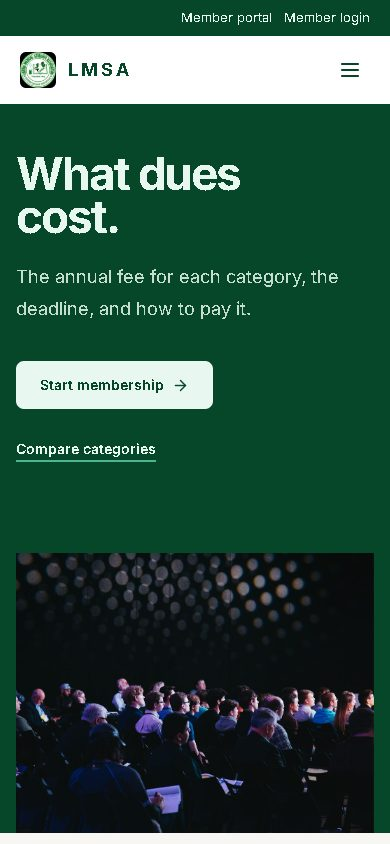
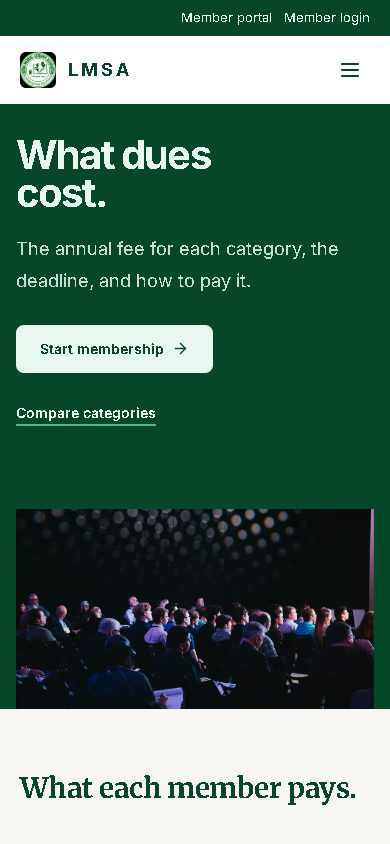
Add a compact poster hero and use it on dues so the fees reach the first screen.
The full poster put 540px of picture beside the title, which pushed the page's own
content below the fold on a page whose first job is to state a price. The compact
variant keeps the poster's layout and colour but caps the picture at 340px and the
display type a step smaller, so the first priced row now lands inside the first
screen while the two membership pages still open alike.

🤖 Generated with Codebuff

diff --git a/lmsa-website/src/components/common/PageHero.jsx b/lmsa-website/src/components/common/PageHero.jsx
@@ -165,7 +165,7 @@ const heroPages = [
     eyebrow: 'Membership / Dues',
     title: 'What dues cost',
     titleLines: ['What dues', 'cost.'],
-    variant: 'poster',
+    variant: 'poster-compact',
     description:
       'The annual fee for each category, the deadline, and how to pay it.',
     action: { label: 'Start membership', to: '/register' },
@@ -358,27 +358,46 @@ export default function PageHero() {
   const isHome = pathname === '/';
   const photo = hero.photoKey ? stockPhotos.hero[hero.photoKey] : null;
 
-  if (hero.variant === 'poster') {
+  // 'poster' opens a section; 'poster-compact' keeps the same layout with a shorter
+  // picture and title, so a page whose first screen belongs to its content can start higher.
+  const isPoster = hero.variant === 'poster' || hero.variant === 'poster-compact';
+  const isCompactPoster = hero.variant === 'poster-compact';
+
+  if (isPoster) {
     return (
       <section
         className={`relative overflow-hidden ${styles.surface} ${styles.text}`}
         aria-labelledby="page-hero-title"
       >
         <div className="mx-auto max-w-7xl px-4 sm:px-6 lg:px-8">
-          <div className="grid items-end gap-10 pt-12 md:pt-16 lg:grid-cols-[1.05fr_0.95fr] lg:gap-16 lg:pt-20">
-            <div className="pb-10 lg:pb-16">
+          <div
+            className={`grid gap-10 lg:grid-cols-[1.05fr_0.95fr] lg:gap-16 ${
+              isCompactPoster
+                ? 'items-center pt-8 md:pt-10 lg:pt-12'
+                : 'items-end pt-12 md:pt-16 lg:pt-20'
+            }`}
+          >
+            <div className={isCompactPoster ? 'pb-8 lg:pb-10' : 'pb-10 lg:pb-16'}>
               <h1
                 id="page-hero-title"
-                className="text-[clamp(2.9rem,7vw,5.75rem)] font-bold leading-[0.92] tracking-[-0.045em]"
+                className={`font-bold tracking-[-0.045em] ${
+                  isCompactPoster
+                    ? 'text-[clamp(2.5rem,5.2vw,4.5rem)] leading-[0.96]'
+                    : 'text-[clamp(2.9rem,7vw,5.75rem)] leading-[0.92]'
+                }`}
               >
                 {(hero.titleLines || [hero.title]).map((line) => (
                   <span key={line} className="block">{line}</span>
                 ))}
               </h1>
-              <p className="mt-6 max-w-[44ch] text-lg leading-8 opacity-85 md:text-xl md:leading-9">
+              <p
+                className={`${isCompactPoster ? 'mt-5' : 'mt-6'} max-w-[44ch] text-lg leading-8 opacity-85 md:text-xl md:leading-9`}
+              >
                 {hero.description}
               </p>
-              <div className="mt-9 flex flex-wrap items-center gap-x-8 gap-y-4">
+              <div
+                className={`${isCompactPoster ? 'mt-7' : 'mt-9'} flex flex-wrap items-center gap-x-8 gap-y-4`}
+              >
                 <Link
                   to={hero.action.to}
                   className="inline-flex min-h-12 items-center gap-2 rounded-lg bg-lmsa-50 px-6 text-sm font-semibold text-lmsa-900 transition-transform duration-200 hover:-translate-y-0.5"
@@ -396,7 +415,7 @@ export default function PageHero() {
                 )}
               </div>
               {hero.stats && (
-                <dl className="mt-12 flex flex-wrap gap-x-12 gap-y-6">
+                <dl className={`${isCompactPoster ? 'mt-8' : 'mt-12'} flex flex-wrap gap-x-12 gap-y-6`}>
                   {hero.stats.map(([value, label]) => (
                     <div key={label} className="flex items-baseline gap-2.5">
                       <dt className="sr-only">{label}</dt>
@@ -414,7 +433,11 @@ export default function PageHero() {
                   src={photo.src}
                   alt={photo.alt}
                   loading="eager"
-                  className="h-[280px] w-full object-cover sm:h-[380px] lg:h-[540px]"
+                  className={`w-full object-cover ${
+                    isCompactPoster
+                      ? 'h-[200px] sm:h-[260px] lg:h-[340px]'
+                      : 'h-[280px] sm:h-[380px] lg:h-[540px]'
+                  }`}
                 />
               </div>
             )}
